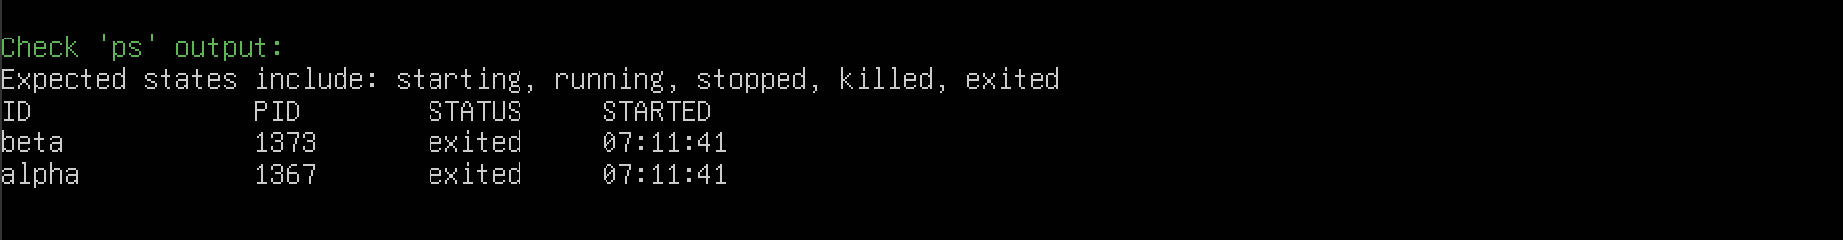
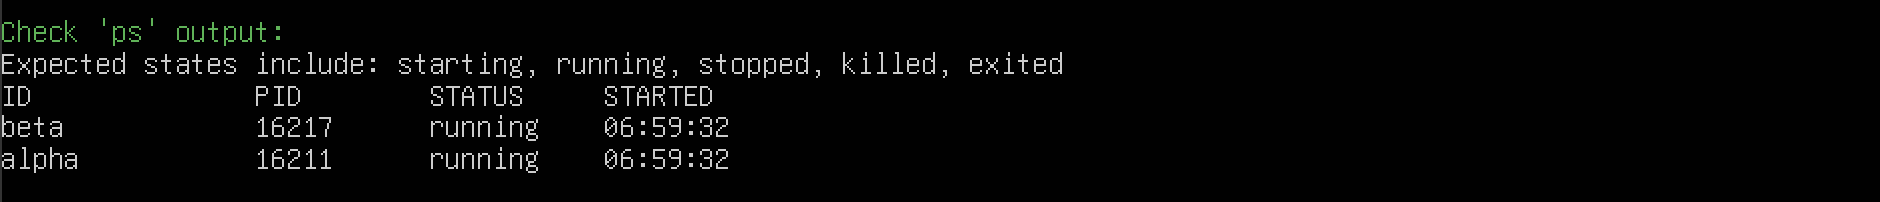
Soft limit added and demo updated

diff --git a/boilerplate/monitor.c b/boilerplate/monitor.c
@@ -139,18 +139,25 @@ static void timer_callback(struct timer_list *t)
             continue;
         }
 
+                /* 🔹 SOFT LIMIT FIRST */
+        if (rss > entry->soft_limit_bytes && !entry->soft_limit_warned) {
+            log_soft_limit_event(entry->container_id, entry->pid,
+                                entry->soft_limit_bytes, rss);
+            entry->soft_limit_warned = 1;
+        }
+
+        /* 🔹 HARD LIMIT AFTER */
         if (rss > entry->hard_limit_bytes) {
-            kill_process(entry->container_id, entry->pid, entry->hard_limit_bytes, rss);
+            kill_process(entry->container_id, entry->pid,
+                        entry->hard_limit_bytes, rss);
             list_del(&entry->list);
             kfree(entry);
             continue;
         }
 
-        if (rss > entry->soft_limit_bytes && !entry->soft_limit_warned) {
-            log_soft_limit_event(entry->container_id, entry->pid, entry->soft_limit_bytes, rss);
-            entry->soft_limit_warned = 1;
-        } else if (rss <= entry->soft_limit_bytes) {
-            entry->soft_limit_warned = 0; // Reset warning if they go back under
+        /* Reset if goes back below soft limit */
+        if (rss <= entry->soft_limit_bytes) {
+            entry->soft_limit_warned = 0;
         }
     }
     mutex_unlock(&monitor_lock);
@@ -183,10 +190,19 @@ static long monitor_ioctl(struct file *f, unsigned int cmd, unsigned long arg)
                req.container_id, req.pid, req.soft_limit_bytes, req.hard_limit_bytes);
 
         struct monitor_entry *new_entry = kmalloc(sizeof(*new_entry), GFP_KERNEL);
-        if (!new_entry) return -ENOMEM;
+        if (!new_entry)
+            return -ENOMEM;
+
+        /* Initialize memory properly */
+        memset(new_entry, 0, sizeof(*new_entry));
 
         new_entry->pid = req.pid;
-        strncpy(new_entry->container_id, req.container_id, sizeof(new_entry->container_id)-1);
+
+        /* Safe string copy */
+        strncpy(new_entry->container_id, req.container_id,
+                sizeof(new_entry->container_id) - 1);
+        new_entry->container_id[sizeof(new_entry->container_id) - 1] = '\0';
+
         new_entry->soft_limit_bytes = req.soft_limit_bytes;
         new_entry->hard_limit_bytes = req.hard_limit_bytes;
         new_entry->soft_limit_warned = 0;
@@ -216,7 +232,8 @@ static long monitor_ioctl(struct file *f, unsigned int cmd, unsigned long arg)
     }
     mutex_unlock(&monitor_lock);
 
-    if (found) return 0;
+    if (found)
+        return 0;
 
     return -ENOENT;
 }
